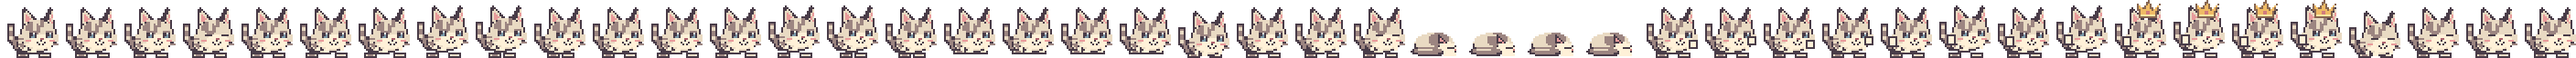
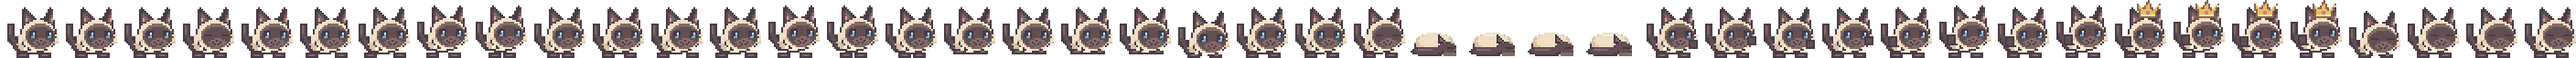
fix: render Snowball as a Siamese cat

Changed region(s): [[0.0, 0.1875, 1.0, 0.9688], [0.0, 0.9375, 0.375, 0.9688]]

diff --git a/src/game/art/Textures.ts b/src/game/art/Textures.ts
@@ -8,6 +8,12 @@ export const PALETTE = {
   green: '#6f8664', moss: '#96a276', leaf: '#b7b984', blue: '#7c9aab', lavender: '#a799b0',
 } as const;
 const C = PALETTE;
+
+// Snowball's Siamese points are separate from the shared room/NPC palette.
+const SIAMESE = {
+  body: '#f0dfc5', bodyShade: '#d7c2a7', chest: '#fff1d8',
+  point: '#615052', pointLight: '#826b66', pointDark: '#433842', eye: '#62bce8',
+} as const;
 type Draw = (p: Pixels) => void;
 
 /** All primitives resolve to integer rectangles, including ellipse and polygon edges. */
@@ -92,6 +98,7 @@ function crown(p: Pixels, x: number, y: number) {
 }
 
 function snowball(p: Pixels, frame: number) {
+  const S = SIAMESE;
   const asleep = frame >= 24 && frame < 28;
   const sitting = frame >= 22 && frame < 24;
   const moving = frame >= 4 && frame < 16;
@@ -102,50 +109,61 @@ function snowball(p: Pixels, frame: number) {
   const bob = moving ? [0,-1,-1,0,0,0][phase] : celebrating ? -(frame % 2) : 0;
   const b = bob + (squash ? 2 : 0);
   if (asleep) {
-    p.ellipse(4,19,24,12,C.ink); p.ellipse(5,18,22,11,C.fur); p.ellipse(12,18,13,8,C.shade);
-    p.ellipse(17,23,12,8,C.ink); p.ellipse(18,23,10,7,C.cream);
-    p.poly([[18,24],[18,19],[23,24]],C.ink); p.poly([[19,23],[19,21],[22,24]],C.pink);
-    p.line(23,26,26,26,C.ink); p.rect(27,27,1,1,C.coral);
-    p.ellipse(3,26,18,5,C.ink); p.ellipse(4,26,17,4,C.shade); p.rect(7,27,8,1,C.fur);
-    p.rect(21,29,7,2,C.cream); if (frame % 2) p.rect(12,19,6,1,C.fur);
+    p.ellipse(4,19,24,12,C.ink); p.ellipse(5,18,22,11,S.bodyShade); p.ellipse(7,18,18,9,S.body);
+    p.ellipse(17,23,12,8,C.ink); p.ellipse(18,23,10,7,S.point);
+    p.poly([[18,24],[18,19],[23,24]],S.pointDark); p.poly([[19,23],[19,21],[22,24]],S.pointLight);
+    p.line(23,26,26,26,S.pointDark); p.rect(27,27,1,1,C.rose);
+    p.ellipse(3,26,18,5,C.ink); p.ellipse(4,26,17,4,S.point); p.rect(7,27,8,1,S.pointLight);
+    p.rect(21,29,7,2,S.pointLight); if (frame % 2) p.rect(12,19,6,1,S.chest);
     return;
   }
-  // Upturned gray-striped tail, kept separate from the body silhouette.
+  // Solid dark tail; no tabby rings.
   p.line(9,25+b,4,19+b,C.ink,4); p.line(4,19+b,4,13+b,C.ink,4);
-  p.line(8,25+b,5,19+b,C.shade,2); p.line(5,19+b,5,14+b,C.shade,2);
-  p.rect(5,15+b,2,2,C.fur); p.rect(5,20+b,2,2,C.fur);
+  p.line(8,25+b,5,19+b,S.point,2); p.line(5,19+b,5,14+b,S.point,2);
+  p.rect(5,14+b,1,5,S.pointLight);
   p.ellipse(sitting?10:8,16+b,sitting?15:19,squash?13:14,C.ink);
-  p.ellipse(sitting?11:9,17+b,sitting?13:17,squash?10:12,C.fur);
-  p.ellipse(9,18+b,8,9,C.shade); p.ellipse(14,18+b,11,10,C.cream);
+  p.ellipse(sitting?11:9,17+b,sitting?13:17,squash?10:12,S.body);
+  p.ellipse(9,21+b,7,7,S.bodyShade); p.ellipse(14,18+b,11,10,S.chest);
   // Feet end on the same baseline; motion moves toes horizontally, never the anchor.
   const step = moving ? [-2,0,2,2,0,-2][phase] : 0;
   const footY = leaping ? 27 : 29;
-  p.frame(9+step,footY,7,3,C.fur,C.ink,1); p.frame(21-step,footY,7,3,C.cream,C.ink,1);
-  p.rect(11+step,footY+1,3,1,C.shade); p.rect(23-step,footY+1,3,1,C.fur);
+  p.frame(9+step,footY,7,3,S.point,C.ink,1); p.frame(21-step,footY,7,3,S.point,C.ink,1);
+  p.rect(11+step,footY+1,3,1,S.pointLight); p.rect(23-step,footY+1,3,1,S.pointLight);
   const hy = 7 + b;
   p.poly([[12,hy+8],[12,hy-2],[14,hy-3],[20,hy+4],[24,hy+3],[27,hy-3],[29,hy-2],[30,hy+10]],C.ink);
-  p.poly([[13,hy+6],[13,hy],[15,hy-1],[19,hy+5],[26,hy+5],[28,hy-1],[29,hy],[29,hy+9]],C.fur);
-  p.poly([[14,hy+1],[17,hy+4],[14,hy+5]],C.pink); p.poly([[27,hy+4],[28,hy+1],[28,hy+6]],C.pink);
-  p.ellipse(10,hy+4,22,18,C.ink); p.ellipse(11,hy+4,20,17,C.fur);
-  p.rect(10,hy+12,2,5,C.fur); p.rect(30,hy+12,2,4,C.fur);
-  p.ellipse(13,hy+5,10,8,C.shade); p.rect(18,hy+5,2,5,C.fur); p.rect(22,hy+4,2,4,C.shade);
-  p.ellipse(13,hy+12,17,8,C.cream); p.ellipse(11,hy+10,7,7,C.fur);
+  p.poly([[13,hy+6],[13,hy],[15,hy-1],[19,hy+5],[26,hy+5],[28,hy-1],[29,hy],[29,hy+9]],S.point);
+  p.poly([[14,hy+1],[17,hy+4],[14,hy+5]],S.pointLight); p.poly([[27,hy+4],[28,hy+1],[28,hy+6]],S.pointLight);
+  p.rect(14,hy+3,1,2,C.pink); p.rect(28,hy+3,1,2,C.pink);
+  p.ellipse(10,hy+4,22,18,C.ink); p.ellipse(11,hy+4,20,17,S.body);
+  p.rect(10,hy+12,2,5,S.body); p.rect(30,hy+12,2,4,S.body);
+  // One continuous face mask instead of forehead stripes and cheek patches.
+  p.ellipse(13,hy+6,18,14,S.pointLight); p.ellipse(14,hy+8,17,11,S.point);
+  p.ellipse(18,hy+14,10,5,S.pointLight);
   const blink = frame === 3 || sitting && frame % 2 === 1 || frame >= 40;
   if (blink) { p.line(16,hy+12,19,hy+12,C.ink); p.line(25,hy+12,28,hy+12,C.ink); }
   else {
     p.rect(16,hy+11,4,3,C.ink); p.rect(25,hy+11,4,3,C.ink);
-    p.rect(17,hy+12,2,2,C.blue); p.rect(26,hy+12,2,2,C.blue);
+    p.rect(17,hy+12,2,2,S.eye); p.rect(26,hy+12,2,2,S.eye);
     p.rect(17,hy+11,1,2,C.ink); p.rect(26,hy+11,1,2,C.ink);
     p.rect(18,hy+11,1,1,C.white); p.rect(27,hy+11,1,1,C.white);
-    p.rect(16,hy+10,4,1,C.shade); p.rect(25,hy+10,4,1,C.shade);
+    p.rect(16,hy+10,4,1,S.pointDark); p.rect(25,hy+10,4,1,S.pointDark);
   }
   p.rect(22,hy+14,2,1,C.rose); p.rect(22,hy+15,1,1,C.ink);
   p.line(20,hy+16,21,hy+17,C.ink); p.line(23,hy+17,24,hy+16,C.ink);
-  p.rect(14,hy+15,3,1,C.pink); p.rect(27,hy+15,3,1,C.pink);
-  p.rect(10,hy+14,3,1,C.shade); p.rect(10,hy+17,3,1,C.shade); p.rect(29,hy+17,3,1,C.shade);
-  p.rect(13,hy+19,2,2,C.cream); p.rect(17,hy+20,3,2,C.cream); p.rect(26,hy+19,2,2,C.cream);
-  if (frame >= 28 && frame < 32) { p.frame(27,22-frame%2*2,5,5,C.cream,C.ink,1); }
-  if (celebrating) { p.frame(8,20+b,5,6,C.cream,C.ink,1); if (frame >= 36) crown(p,16,0); }
+  p.rect(12,hy+15,3,1,S.bodyShade); p.rect(29,hy+16,3,1,S.bodyShade);
+  p.rect(13,hy+19,2,2,S.chest); p.rect(17,hy+20,3,2,S.chest); p.rect(26,hy+19,2,2,S.chest);
+  if (frame >= 28 && frame < 32) { p.frame(27,22-frame%2*2,5,5,S.point,C.ink,1); }
+  if (celebrating) { p.frame(8,20+b,5,6,S.point,C.ink,1); if (frame >= 36) crown(p,16,0); }
+}
+
+/** The sleeping neighbor is a separate cat, not Snowball's sleep animation. */
+function sleepyNeighbor(p: Pixels) {
+  p.ellipse(4,19,24,12,C.ink); p.ellipse(5,18,22,11,C.fur); p.ellipse(12,18,13,8,C.shade);
+  p.ellipse(17,23,12,8,C.ink); p.ellipse(18,23,10,7,C.cream);
+  p.poly([[18,24],[18,19],[23,24]],C.ink); p.poly([[19,23],[19,21],[22,24]],C.pink);
+  p.line(23,26,26,26,C.ink); p.rect(27,27,1,1,C.coral);
+  p.ellipse(3,26,18,5,C.ink); p.ellipse(4,26,17,4,C.shade); p.rect(7,27,8,1,C.fur);
+  p.rect(21,29,7,2,C.cream);
 }
 
 function paw(p: Pixels, x: number, y: number, s: number, color: string) {
@@ -342,7 +360,7 @@ export function createTextures(scene: Phaser.Scene): void {
     if(key==='fish')fish(p);else if(key==='star')star(p);else if(key==='feather')feather(p);
     else if(key==='key'){p.ellipse(7,1,19,19,C.woodDark);p.ellipse(8,2,17,17,C.gold);p.ellipse(12,5,9,10,C.woodDark);p.ellipse(13,6,7,8,C.goldLight);p.frame(13,17,7,15,C.gold,C.woodDark,1);p.rect(18,24,7,4,C.woodDark);p.rect(19,24,5,2,C.gold);p.rect(18,29,5,3,C.gold);}
     else if(key==='heart'){p.poly([[2,7],[6,3],[12,3],[16,7],[20,3],[27,3],[31,8],[30,16],[16,30],[2,16]],C.rose);p.poly([[4,8],[7,5],[11,5],[16,10],[21,5],[26,5],[29,9],[27,16],[16,27],[5,16]],C.pink);p.rect(7,7,4,4,C.cream);}
-    else if(key==='plant')plant(p);else if(key==='sleepy-cat')snowball(new Pixels(p.ctx,0,0,2),24);
+    else if(key==='plant')plant(p);else if(key==='sleepy-cat')sleepyNeighbor(new Pixels(p.ctx,0,0,2));
     else if(['sky','far-city','mid-buildings','near-houses','foreground'].includes(key))backgrounds(new Pixels(p.ctx,0,0,1,w),key);
     else if(key==='crown')crown(new Pixels(p.ctx,3,4,2),0,0);
     else if(key==='paw')paw(p,4,7,2,C.cream);

diff --git a/src/game/scenes/HUDScene.ts b/src/game/scenes/HUDScene.ts
@@ -81,7 +81,8 @@ export class HUDScene extends Phaser.Scene {
     hit.on('pointerup', () => this.home.dialogue.next());
     this.overlay.add(hit);
     this.overlay.add(panel(this, 235, 471, 810, 191, 0xffefd5));
-    this.overlay.add(this.add.image(291, 567, d.speaker.includes('MOUSE') ? 'mouse' : 'snowball').setScale(1));
+    const portraitKey = d.speaker.includes('MOUSE') ? 'mouse' : d.speaker === 'PROFESSIONAL NAPPER' ? 'sleepy-cat' : 'snowball';
+    this.overlay.add(this.add.image(291, 567, portraitKey).setScale(1));
     this.overlay.add(text(this, 341, 494, d.speaker, 12, '#a46652').setLetterSpacing(2));
     this.overlay.add(text(this, 341, 526, this.home.dialogue.line, 18));
     this.overlay.add(text(this, 1019, 629, `E / SPACE / TAP TO CONTINUE  ${this.home.dialogue.index + 1}/${d.lines.length}`, 10, '#9c8064').setOrigin(1, 0));

diff --git a/src/game/art/AssetLoader.ts b/src/game/art/AssetLoader.ts
@@ -8,7 +8,7 @@ import { registerAnimations } from './Textures';
  */
 export function preloadAssets(scene: Phaser.Scene): void {
   for (const asset of manifest.textures) {
-    const url = `assets/${asset.path}`;
+    const url = `assets/${asset.path}?v=${manifest.version}`;
     if (asset.key === 'snowball') {
       scene.load.spritesheet(asset.key, url, { frameWidth: 64, frameHeight: 64 });
     } else {

diff --git a/docs/ASSET_STATUS.md b/docs/ASSET_STATUS.md
@@ -31,7 +31,9 @@ No crop coordinates were invented. A PNG's alpha-capable format alone does not e
 
 ## Playable placeholder artwork
 
-`src/game/art/Textures.ts` creates **original code-drawn pixel textures**, using the references for the cream/gray cat, coral furnishings, moss plants, outlined collectibles, and warm city palette. These are deliberate, correctly sized placeholders; they are not claimed to be extracted approved production sprites.
+`src/game/art/Textures.ts` creates **original code-drawn pixel textures**, using the references for the Siamese cat, coral furnishings, moss plants, outlined collectibles, and warm city palette. These are deliberate, correctly sized placeholders; they are not claimed to be extracted approved production sprites.
+
+Owner correction (2026-09-09): **Snowball is a Siamese cat.** The initial placeholder incorrectly used tabby forehead/cheek stripes and tail rings. All 44 Snowball frames now use a cream body, a continuous dark face mask, dark ears/paws/tail and blue eyes. The game, title, HUD and dialogue/result portraits share this corrected sheet. The sleeping neighbor has its own drawing and retains its separate appearance. The manifest version is included in image URLs so refreshed games request the corrected artwork instead of a cached prior sheet.
 
 The drawing layer uses integer rectangle fills, scanline ellipses/polygons and pixel lines. No image smoothing, source-image slicing, external font raster dependency, or generated all-in-one background is used. The exporter creates PNG files; the game loads those files through `src/game/art/AssetLoader.ts`. `registerAnimations` registers shared Snowball animations once.
 

diff --git a/SNOWBALL_QUEST_HANDOFF.md b/SNOWBALL_QUEST_HANDOFF.md
@@ -10,7 +10,7 @@
 
 ## 1. Product Vision
 
-Build a short, charming, story-driven 2D side-scrolling pixel game starring **Snowball**, a cream-gray cat inspired by the reference photo.
+Build a short, charming, story-driven 2D side-scrolling pixel game starring **Snowball**, a Siamese cat inspired by the reference photo.
 
 The game should feel like a compact 16-bit platform adventure rather than a combat game.
 
@@ -37,12 +37,12 @@ The main fantasy is:
 
 Visual identity:
 
-- Cream / light gray cat
-- Slightly darker ears, face markings, forehead stripes, paws, and tail
+- Siamese cat with a pale cream body (owner clarification, 2026-09-09)
+- Solid darker ears, a continuous face mask, paws, and tail; no tabby forehead stripes or tail rings
 - Round, compact body
 - Slightly unimpressed / sleepy facial expression
 - Pink inner ears
-- Large expressive eyes
+- Large expressive blue eyes
 - Soft retro pixel-art shading
 - Clear silhouette at small sizes
 
@@ -2110,7 +2110,7 @@ GPT-6 must NOT:
 
 The user should be able to open a URL and immediately experience:
 
-> A tiny cream-gray cat wakes up in a cozy room, walks into a glowing pixel city, gathers golden fish, helps strange little animals, discovers hidden rooms, and eventually returns home wearing a crown.
+> A tiny Siamese cat wakes up in a cozy room, walks into a glowing pixel city, gathers golden fish, helps strange little animals, discovers hidden rooms, and eventually returns home wearing a crown.
 
 The final emotional tone should be:
 

diff --git a/README.md b/README.md
@@ -1,6 +1,6 @@
 # Snowball Quest
 
-A cozy browser platformer starring a slightly unimpressed cat. This repository implements the first vertical slice, **HOME — THE EMPTY TREAT BOX**: explore the apartment, return a tiny toy to its owner, find the balcony key, open the treat box, and follow the sunset to the flag. Later stages remain outside the initial slice.
+A cozy browser platformer starring Snowball, a slightly unimpressed Siamese cat with cream fur, dark points and blue eyes. This repository implements the first vertical slice, **HOME — THE EMPTY TREAT BOX**: explore the apartment, return a tiny toy to its owner, find the balcony key, open the treat box, and follow the sunset to the flag. Later stages remain outside the initial slice.
 
 Built with Phaser 3, TypeScript, Vite, Tiled JSON, Arcade Physics, Web Audio and localStorage. The game renders at 1280 × 720 with nearest-neighbor pixel art; the Home world is 4096 × 768. The target first-play duration is 3–5 minutes, to be confirmed through playtesting.
 
